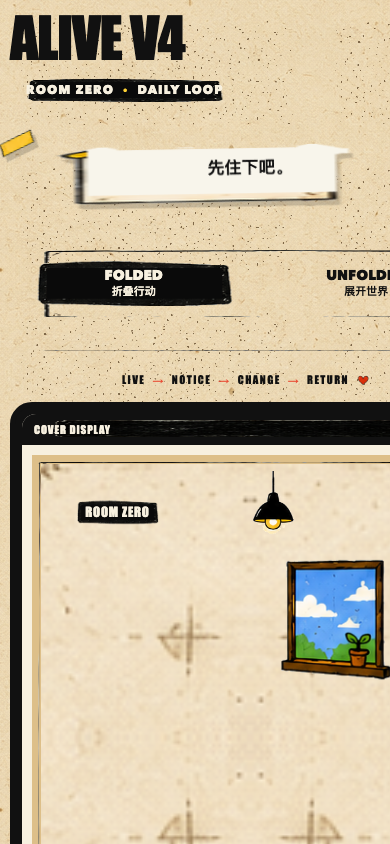
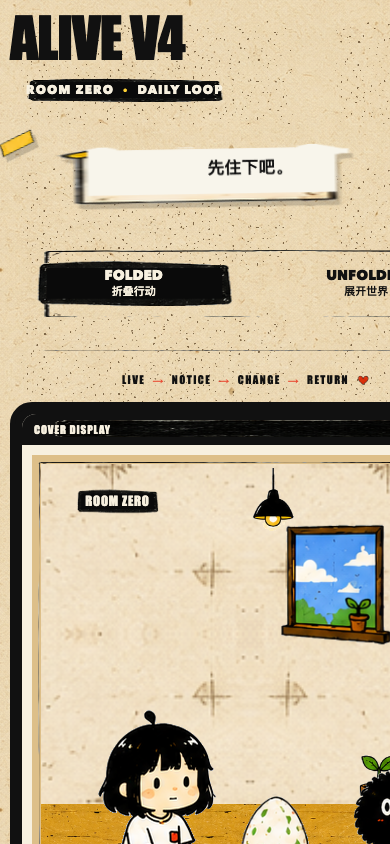
fix: lock folded and unfolded screen ratios

diff --git a/src/styles/app.css b/src/styles/app.css
@@ -30,10 +30,14 @@ img { max-width: 100%; }
 
 .handheld-shell { padding: 14px; border: 7px solid var(--ink); border-radius: 34px; background: var(--ink); box-shadow: var(--heavy-shadow); }
 .screen-bezel { overflow: hidden; border: 0; border-radius: 22px; background: var(--paper); }
+.screen-bezel[data-screen-mode="unfolded"] { aspect-ratio: 2480 / 2248; }
+.screen-bezel[data-screen-mode="folded"] { aspect-ratio: 1140 / 2616; }
+.screen-bezel[data-screen-mode="unfolded"], .screen-bezel[data-screen-mode="folded"] { display: grid; grid-template-rows: auto minmax(0, 1fr) auto; }
 .screen-label { display: flex; justify-content: space-between; gap: 14px; min-width: 0; padding: 14px 8%; color: var(--paper); background-color: var(--ink); background-image: url('../../public/assets/material/frame-cta-black.png'); background-size: 100% 100%; font-family: var(--font-display); font-size: clamp(11px, 1.2vw, 16px); letter-spacing: .08em; white-space: nowrap; }
 .screen-label span { min-width: 0; overflow: hidden; text-overflow: ellipsis; }
-.unfolded-display { display: grid; grid-template-columns: minmax(0, 2fr) minmax(280px, 1fr); gap: 10px; padding: 10px; background: var(--paper); }
-.unfolded-main { min-width: 0; }
+.unfolded-display { display: grid; grid-template-columns: minmax(0, 2fr) minmax(0, 1fr); gap: 10px; min-width: 0; min-height: 0; height: 100%; padding: 10px; overflow: hidden; background: var(--paper); }
+.unfolded-main { display: grid; grid-template-rows: minmax(0, 1.15fr) minmax(112px, .32fr) minmax(170px, .44fr); gap: 0; min-width: 0; min-height: 0; width: 100%; overflow: hidden; }
+.unfolded-room, .unfolded-room .room-scene { min-height: 0; height: 100%; }
 .room-scene { position: relative; overflow: hidden; aspect-ratio: 1.78; border: 9px solid transparent; border-image: url('../../public/assets/material/frame-panel.png') 28 fill / 9px / 0 stretch; background: #ddbf89; }
 .room-texture { position: absolute; width: 100%; pointer-events: none; }
 .wall-texture { inset: 0 0 25%; height: 75%; object-fit: cover; }
@@ -69,7 +73,7 @@ img { max-width: 100%; }
 .section-heading { display: flex; justify-content: space-between; gap: 14px; align-items: baseline; margin-bottom: 12px; }
 .section-heading h2, .status-card h2, .mood-card h2 { margin: 0; font-size: clamp(18px, 1.6vw, 26px); }
 .section-heading span, .status-card .section-heading span { color: var(--muted); font-size: 12px; font-weight: 800; }
-.quick-grid { display: grid; grid-template-columns: repeat(4, 1fr); gap: 8px; }
+.quick-grid { display: grid; grid-template-columns: repeat(4, minmax(0, 1fr)); gap: 8px; min-width: 0; }
 .record-card { position: relative; display: grid; grid-template-columns: auto 1fr; grid-template-rows: auto auto; align-items: center; min-height: 78px; padding: 10px; overflow: hidden; border: 8px solid transparent; border-image: url('../../public/assets/material/frame-button-secondary.png') 20 fill / 8px / 0 stretch; background-color: transparent; text-align: left; }
 .record-card:hover, .record-card:focus-visible { background-color: var(--yellow); }
 .record-plus { grid-row: 1 / 3; margin-right: 9px; font-family: var(--font-display); font-size: 31px; }
@@ -80,7 +84,7 @@ img { max-width: 100%; }
 .other-record { width: 100%; margin-top: 8px; padding: 10px 12px; border: 8px solid transparent; border-image: url('../../public/assets/material/frame-button-secondary.png') 20 fill / 8px / 0 stretch; background-color: transparent; font-weight: 900; text-align: left; }
 .other-record span { margin-right: 7px; font-family: var(--font-display); font-size: 24px; } .other-record small { margin-left: 8px; color: var(--muted); font-weight: 700; }
 
-.status-column { display: grid; grid-template-rows: auto auto; align-content: start; gap: 10px; min-width: 0; }
+.status-column { display: grid; grid-template-rows: auto auto; align-content: start; gap: 10px; min-width: 0; width: 100%; overflow: hidden; }
 .status-card, .mood-card, .seed-card { padding: 11px 15px; border: 10px solid transparent; border-image: url('../../public/assets/material/frame-panel.png') 24 fill / 10px / 0 stretch; background-color: var(--paper); }
 .status-row { display: flex; justify-content: space-between; gap: 9px; padding: 17px 0 14px; background-image: url('../../public/assets/material/divider-handdrawn.png'); background-position: center top; background-size: 100% 8px; background-repeat: no-repeat; font-size: 14px; }
 .status-row span { display: flex; align-items: center; gap: 8px; font-weight: 800; }
@@ -104,8 +108,9 @@ img { max-width: 100%; }
 .footer-caption { display: flex; justify-content: space-between; gap: 20px; align-items: baseline; padding-top: 24px; font-family: var(--font-display); } .footer-caption span { font-size: 25px; } .footer-caption small { letter-spacing: .07em; }
 
 [data-mode="folded"] .unfolded-display { display: none; }
-[data-mode="folded"] .folded-display { display: block; padding: 10px; }
-[data-mode="folded"] .folded-scene .room-scene { width: 100%; aspect-ratio: .56; max-height: none; }
+[data-mode="folded"] .folded-display { display: grid; grid-template-rows: minmax(0, 1.75fr) minmax(0, .65fr) minmax(60px, .45fr) minmax(48px, .35fr); gap: 10px; min-height: 0; height: 100%; padding: 10px; }
+[data-mode="folded"] .folded-scene { min-height: 0; }
+[data-mode="folded"] .folded-scene .room-scene { width: 100%; height: 100%; aspect-ratio: auto; max-height: none; }
 [data-mode="folded"] .folded-scene .room-label { top: 4%; left: 7%; }
 [data-mode="folded"] .folded-scene .room-note { display: none; }
 [data-mode="folded"] .folded-scene .wall-texture { inset: 0 0 28%; height: 72%; }
@@ -118,10 +123,10 @@ img { max-width: 100%; }
 [data-mode="folded"] .folded-scene .egg-asset { bottom: 9%; left: 39%; width: 33%; }
 [data-mode="folded"] .folded-scene .resident-asset { bottom: 8%; left: 11%; width: 37%; }
 [data-mode="folded"] .folded-scene .smoke-asset { bottom: 14%; right: 4%; width: 24%; }
-[data-mode="folded"] .focus-panel { margin-top: 10px; }
+[data-mode="folded"] .focus-panel { min-height: 0; margin-top: 0; }
 [data-mode="folded"] .focus-copy p { font-size: 12px; }
 [data-mode="folded"] .focus-meter { display: none; }
-.primary-action, .secondary-action { width: 100%; margin-top: 10px; border: 0; font-weight: 950; }
+.primary-action, .secondary-action { width: 100%; margin-top: 0; border: 0; font-weight: 950; }
 .primary-action { display: flex; justify-content: center; align-items: center; gap: 9px; min-height: 62px; padding: 10px 16px; color: var(--paper); background-color: var(--ink); border: 8px solid transparent; border-image: url('../../public/assets/material/frame-cta-black.png') 20 fill / 8px / 0 stretch; font-size: 20px; }
 .primary-action img { width: 25px; height: 25px; object-fit: contain; }
 .primary-action:hover { color: var(--ink); background-color: var(--yellow); }

diff --git a/src/layout/shell.js b/src/layout/shell.js
@@ -73,5 +73,5 @@ function bottomNav() {
 }
 
 export function renderShell({ mode, records, lastAction, smokeEncountered }) {
-  return `<div class="app-stage" data-mode="${mode}"><header class="brand-header"><div class="brand-lockup"><div class="brand-title">${scene.title}</div><div class="brand-subtitle">${scene.room} <span>·</span> DAILY LOOP</div></div><div class="brand-note">${note(scene.tagline, 'header-note')}<img src="${scene.assets.heart}" alt="" aria-hidden="true"></div><div class="mode-tabs" aria-label="掌机模式"><button data-mode-choice="folded" class="${mode === 'folded' ? 'is-active' : ''}" type="button">FOLDED<br><small>折叠行动</small></button><button data-mode-choice="unfolded" class="${mode === 'unfolded' ? 'is-active' : ''}" type="button">UNFOLDED<br><small>展开世界</small></button></div></header><section class="loop-strip"><span>LIVE</span><b>→</b><span>NOTICE</span><b>→</b><span>CHANGE</span><b>→</b><span>RETURN</span><img src="${scene.assets.heart}" alt="" aria-hidden="true"></section><section class="handheld-shell"><div class="screen-bezel"><div class="screen-label"><span>${mode === 'folded' ? 'COVER DISPLAY' : 'MAIN DISPLAY'}</span><span>${mode === 'folded' ? '2616 × 1140' : '2480 × 2248'}</span></div>${mode === 'folded' ? foldedDisplay({ records, lastAction, smokeEncountered }) : unfoldedDisplay({ records, lastAction, smokeEncountered })}${bottomNav()}</div></section><footer class="footer-caption"><span>把自己，养回来。</span><small>ALIVE V4 · ROOM ZERO · ONE SMALL THING AT A TIME</small></footer></div>`;
+  return `<div class="app-stage" data-mode="${mode}"><header class="brand-header"><div class="brand-lockup"><div class="brand-title">${scene.title}</div><div class="brand-subtitle">${scene.room} <span>·</span> DAILY LOOP</div></div><div class="brand-note">${note(scene.tagline, 'header-note')}<img src="${scene.assets.heart}" alt="" aria-hidden="true"></div><div class="mode-tabs" aria-label="掌机模式"><button data-mode-choice="folded" class="${mode === 'folded' ? 'is-active' : ''}" type="button">FOLDED<br><small>折叠行动</small></button><button data-mode-choice="unfolded" class="${mode === 'unfolded' ? 'is-active' : ''}" type="button">UNFOLDED<br><small>展开世界</small></button></div></header><section class="loop-strip"><span>LIVE</span><b>→</b><span>NOTICE</span><b>→</b><span>CHANGE</span><b>→</b><span>RETURN</span><img src="${scene.assets.heart}" alt="" aria-hidden="true"></section><section class="handheld-shell"><div class="screen-bezel" data-screen-mode="${mode}"><div class="screen-label"><span>${mode === 'folded' ? 'COVER DISPLAY' : 'MAIN DISPLAY'}</span><span>${mode === 'folded' ? '2616 × 1140' : '2480 × 2248'}</span></div>${mode === 'folded' ? foldedDisplay({ records, lastAction, smokeEncountered }) : unfoldedDisplay({ records, lastAction, smokeEncountered })}${bottomNav()}</div></section><footer class="footer-caption"><span>把自己，养回来。</span><small>ALIVE V4 · ROOM ZERO · ONE SMALL THING AT A TIME</small></footer></div>`;
 }

diff --git a/index.html b/index.html
@@ -5,11 +5,11 @@
     <meta name="viewport" content="width=device-width, initial-scale=1.0, viewport-fit=cover" />
     <meta name="theme-color" content="#f4ead5" />
     <title>ALIVE V4 · Room Zero</title>
-    <link rel="stylesheet" href="./src/styles/tokens.css?v=20260830-redo3" />
-    <link rel="stylesheet" href="./src/styles/app.css?v=20260830-redo3" />
+    <link rel="stylesheet" href="./src/styles/tokens.css?v=20260830-ratio3" />
+    <link rel="stylesheet" href="./src/styles/app.css?v=20260830-ratio3" />
   </head>
   <body>
     <main id="app" aria-live="polite"></main>
-    <script type="module" src="./src/app.js?v=20260830-redo3"></script>
+    <script type="module" src="./src/app.js?v=20260830-ratio3"></script>
   </body>
 </html>

diff --git a/design-qa.md b/design-qa.md
@@ -4,7 +4,7 @@ visual review: ready for user sign-off
 
 Reference: `/Users/Jenny/Desktop/alive排版.png` plus the supplied `alive 01–05.png` and `kit1–9.png` visual kits.
 
-Captured states (redo4):
+Captured states (ratio3):
 
 - 390×844 folded cover viewport: `outputs/qa/folded-390x844.png`
 - 1140×2616 folded cover viewport: `outputs/qa/folded-1140x2616.png`
@@ -18,6 +18,7 @@ Checks completed:
 - Folded mode keeps the action order: room → today's focus → primary action → other records → navigation.
 - Real Room Zero furniture, characters, world objects, UI paper/tape, frame assets, and textures are loaded from the copied asset library.
 - Entry points and asset references are repository-relative so a GitHub Pages project URL can load the app on mobile.
+- Screen aspect-ratio constraints are explicit in CSS and covered by automated tests: unfolded `2480 / 2248`, folded `1140 / 2616`.
 - Mode switching and the five first-stage record actions are interactive; state remains intentionally in memory until the persistence phase.
 - Automated tests: 5/5 passed.
 
